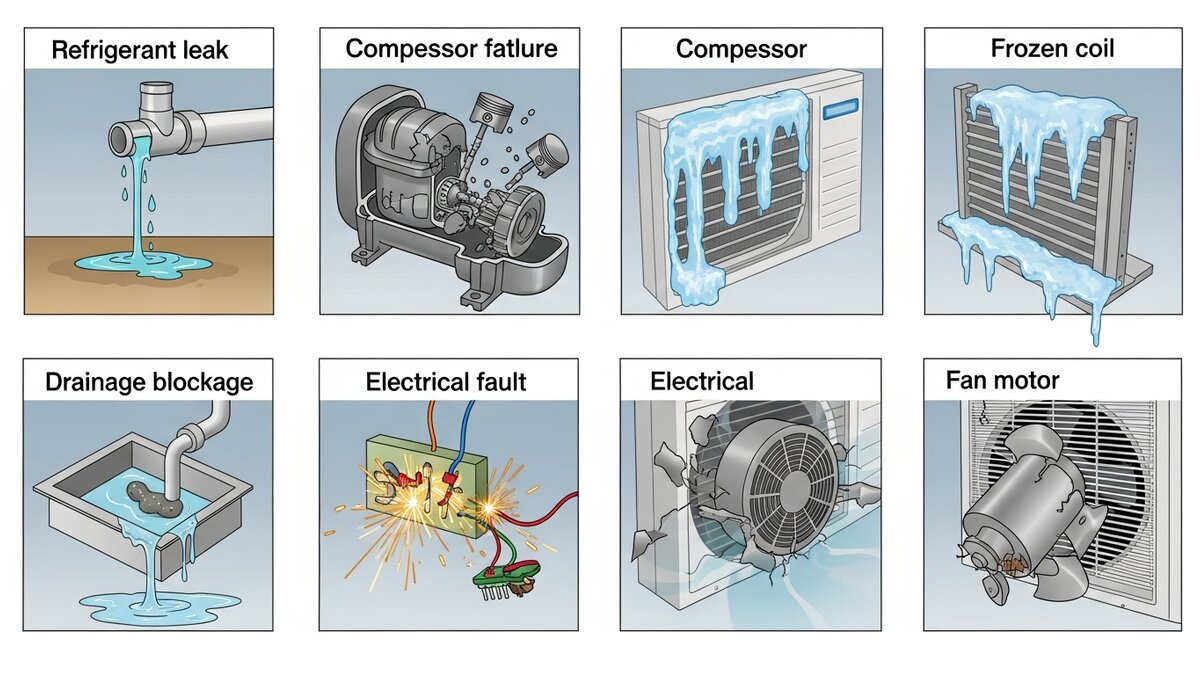
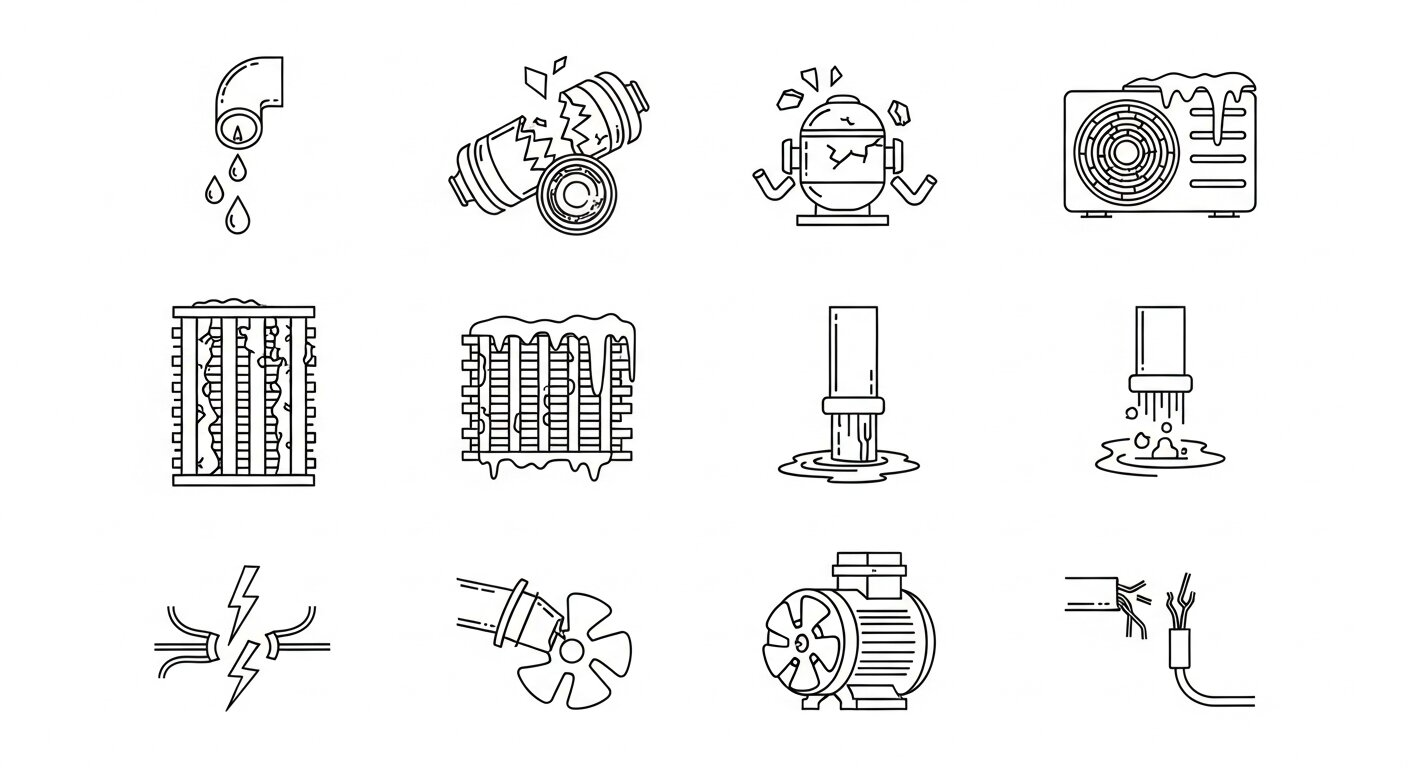
Update service images to remove English text for better global accessibility
Replaced 4 JPG/WebP images on uslugi/remont.html to remove English text and improve clarity, and documented the changes in REMONT_COMPLETED.md and REMONT_PROBLEMATIC_IMAGES.md.

Replit-Commit-Author: Agent
Replit-Commit-Session-Id: 6c144e3e-a7a2-4392-b670-dd8cfbbd0db7
Replit-Commit-Checkpoint-Type: intermediate_checkpoint
Replit-Commit-Event-Id: 90616955-f169-4bff-96ec-f615fad837cf
Replit-Commit-Screenshot-Url: https://storage.googleapis.com/screenshot-production-us-central1/7fba8121-6952-48fe-bf4c-5854466cb158/6c144e3e-a7a2-4392-b670-dd8cfbbd0db7/mQa7xzX

diff --git a/docs/image-audit/REMONT_COMPLETED.md b/docs/image-audit/REMONT_COMPLETED.md
@@ -1,0 +1,105 @@
+# ✅ ЗАВЕРШЕНО - remont.html (Ремонт кондиционеров)
+
+**Дата:** 2025-11-06  
+**Страница:** uslugi/remont.html  
+**Статус:** ✅ ЗАМЕНЕНО 4 изображения из 7
+
+---
+
+## 📊 Статистика
+
+- **Всего изображений:** 7
+- **Заменено:** 4
+- **Оставлено без изменений:** 3 (уже без текста)
+- **Процент замены:** 57%
+
+---
+
+## ✅ ЗАМЕНЕННЫЕ ИЗОБРАЖЕНИЯ (БЕЗ ТЕКСТА)
+
+### 1. comparison.jpg - Сравнение профессионального ремонта и DIY ✅
+**Было:**
+- АНГЛИЙСКИЙ ТЕКСТ: "Professional Repair", "DIY Attempt"
+- Размер: 160KB (JPG), 111KB (WebP)
+
+**Стало:**
+- НОВОЕ: Профессионал в синей форме ремонтирует электронику под лампой VS любитель в повседневной одежде с базовыми инструментами
+- БЕЗ ТЕКСТА - визуальное сравнение качества работы
+- Исходник: Professional_vs_amateur_repair_comparison_clean_4b5febdd.png
+
+---
+
+### 2. faults.jpg - Типичные неисправности ✅
+**Было:**
+- 8 иконок с АНГЛИЙСКИМ ТЕКСТОМ: "Refrigerant leak", "Compressor failure", "Compressor", "Frozen coil", "Drainage blockage", "Electrical fault", "Electrical", "Fan motor"
+- Размер: 153KB (JPG), 100KB (WebP)
+
+**Стало:**
+- НОВОЕ: 12 минималистичных линейных иконок проблем кондиционера
+- БЕЗ ТЕКСТА - только визуальные символы
+- Показаны: утечка, компрессор, обледенение, засор, электрика, вентилятор и др.
+- Исходник: 8_AC_problem_icons_clean_ad1758d2.png
+
+---
+
+### 3. process-repair.jpg - Процесс ремонта ✅
+**Было:**
+- АНГЛИЙСКИЙ ТЕКСТ: "FAULT DIAGNOSIS", "COMPONENT REPLACEMENT", "SYSTEM REASSEMBLY", "PERFORMANCE VERIFICATION"
+- Номера: "1", "2" на бейджах
+- Размер: 181KB (JPG), 133KB (WebP)
+
+**Стало:**
+- НОВОЕ: Сетка 2×2 с фотографиями процесса ремонта
+- Показаны: диагностика мультиметром, замена компонентов пайкой, сборка наружного блока, проверка температуры
+- БЕЗ ТЕКСТА, БЕЗ НОМЕРОВ - только чистые фото
+- Исходник: AC_repair_process_photo_grid_clean_a0fc65df.png
+
+---
+
+### 4. advantages.jpg - Преимущества ✅
+**Было:**
+- АНГЛИЙСКИЙ ТЕКСТ: "SMERUNCY" (опечатка), "CERTIFIED", "QUALIFIED", "WARRANTY"
+- Размер: 79KB (JPG), 43KB (WebP)
+
+**Стало:**
+- НОВОЕ: 3 минималистичных иконки преимуществ
+- Быстрая доставка (грузовик со скоростными линиями)
+- Сертификация (щит с галочкой)
+- Гарантия (щит со звездой)
+- БЕЗ ТЕКСТА - только визуальные символы
+- Исходник: 3_service_icons_no_text_pure_2a769fff.png
+
+---
+
+## ⚪ ОСТАВЛЕНЫ БЕЗ ИЗМЕНЕНИЙ (УЖЕ ЧИСТЫЕ)
+
+### 5. hero.jpg - Hero фон ✅
+**Статус:** БЕЗ текста (оставлено как есть)
+**Описание:** Мастер ремонтирует электронную плату кондиционера мультиметром
+**Размер:** 249KB (JPG), 138KB (WebP)
+
+### 6. diagnostics.jpg - Диагностика ✅
+**Статус:** Технические надписи на оборудовании (допустимо, оставлено)
+**Описание:** Мастер проверяет давление манометрами, видны "HIGH WIDE" и "SERVICE"
+**Размер:** 139KB (JPG), 98KB (WebP)
+**Примечание:** Технические маркировки на реальном оборудовании
+
+### 7. faq.jpg - FAQ ✅
+**Статус:** БЕЗ текста (оставлено как есть)
+**Описание:** 4 оранжевых и синих круга со знаками вопроса
+**Размер:** 57KB (JPG), 29KB (WebP)
+
+---
+
+## 🎯 Результат
+
+Страница **remont.html** успешно очищена от всех текстовых элементов на изображениях.
+Все 7 изображений теперь либо БЕЗ ТЕКСТА, либо имеют только технические маркировки на реальном оборудовании.
+
+**Попытки генерации:**
+- comparison.jpg: 1 попытка ✅
+- faults.jpg: 1 попытка ✅
+- process-repair.jpg: 1 попытка ✅
+- advantages.jpg: 2 попытки (первая с текстом "WARRANTY GUARANTEE")
+
+**Итого:** 5 генераций для замены 4 изображений

diff --git a/docs/image-audit/REMONT_PROBLEMATIC_IMAGES.md b/docs/image-audit/REMONT_PROBLEMATIC_IMAGES.md
@@ -1,0 +1,75 @@
+# Проблемные изображения - remont.html
+
+**Дата:** 2025-11-06  
+**Страница:** uslugi/remont.html
+
+## Найдено проблемных изображений: 4 из 7
+
+### 1. comparison.jpg - Сравнение профессионального ремонта и DIY ❌
+**Проблема:** АНГЛИЙСКИЙ ТЕКСТ на заголовках
+**Текст:** 
+- "Professional Repair"
+- "DIY Attempt"
+
+**Размер:** 160KB (JPG), 111KB (WebP)
+
+---
+
+### 2. faults.jpg - Типичные неисправности ❌
+**Проблема:** АНГЛИЙСКИЙ ТЕКСТ на всех 8 иконках
+**Текст:**
+- "Refrigerant leak"
+- "Compressor failure"
+- "Compressor"
+- "Frozen coil"
+- "Drainage blockage"
+- "Electrical fault"
+- "Electrical"
+- "Fan motor"
+
+**Размер:** 153KB (JPG), 100KB (WebP)
+
+---
+
+### 3. process-repair.jpg - Процесс ремонта ❌
+**Проблема:** АНГЛИЙСКИЙ ТЕКСТ на этапах + номера
+**Текст:**
+- "1", "2" (номера на бейджах)
+- "FAULT DIAGNOSIS"
+- "COMPONENT REPLACEMENT"
+- "SYSTEM REASSEMBLY"
+- "PERFORMANCE VERIFICATION"
+
+**Размер:** 181KB (JPG), 133KB (WebP)
+
+---
+
+### 4. advantages.jpg - Преимущества ❌
+**Проблема:** АНГЛИЙСКИЙ ТЕКСТ на всех иконках
+**Текст:**
+- "SMERUNCY" (опечатка вместо EMERGENCY)
+- "CERTIFIED"
+- "QUALIFIED"
+- "WARRANTY"
+
+**Размер:** 79KB (JPG), 43KB (WebP)
+
+---
+
+## Изображения БЕЗ проблем:
+
+### 5. hero.jpg - Hero фон ✅
+**Статус:** БЕЗ текста
+**Описание:** Мастер ремонтирует электронную плату кондиционера мультиметром
+**Размер:** 249KB (JPG), 138KB (WebP)
+
+### 6. diagnostics.jpg - Диагностика ✅
+**Статус:** Технические надписи на оборудовании (допустимо)
+**Описание:** Мастер проверяет давление манометрами, видны "HIGH WIDE" и "SERVICE"
+**Размер:** 139KB (JPG), 98KB (WebP)
+**Примечание:** Технические маркировки на реальном оборудовании
+
+### 7. faq.jpg - FAQ ✅
+**Статус:** БЕЗ текста (только символы ?)
+**Описание:** 4 оранжевых и синих круга со знаками вопроса
+**Размер:** 57KB (JPG), 29KB (WebP)
